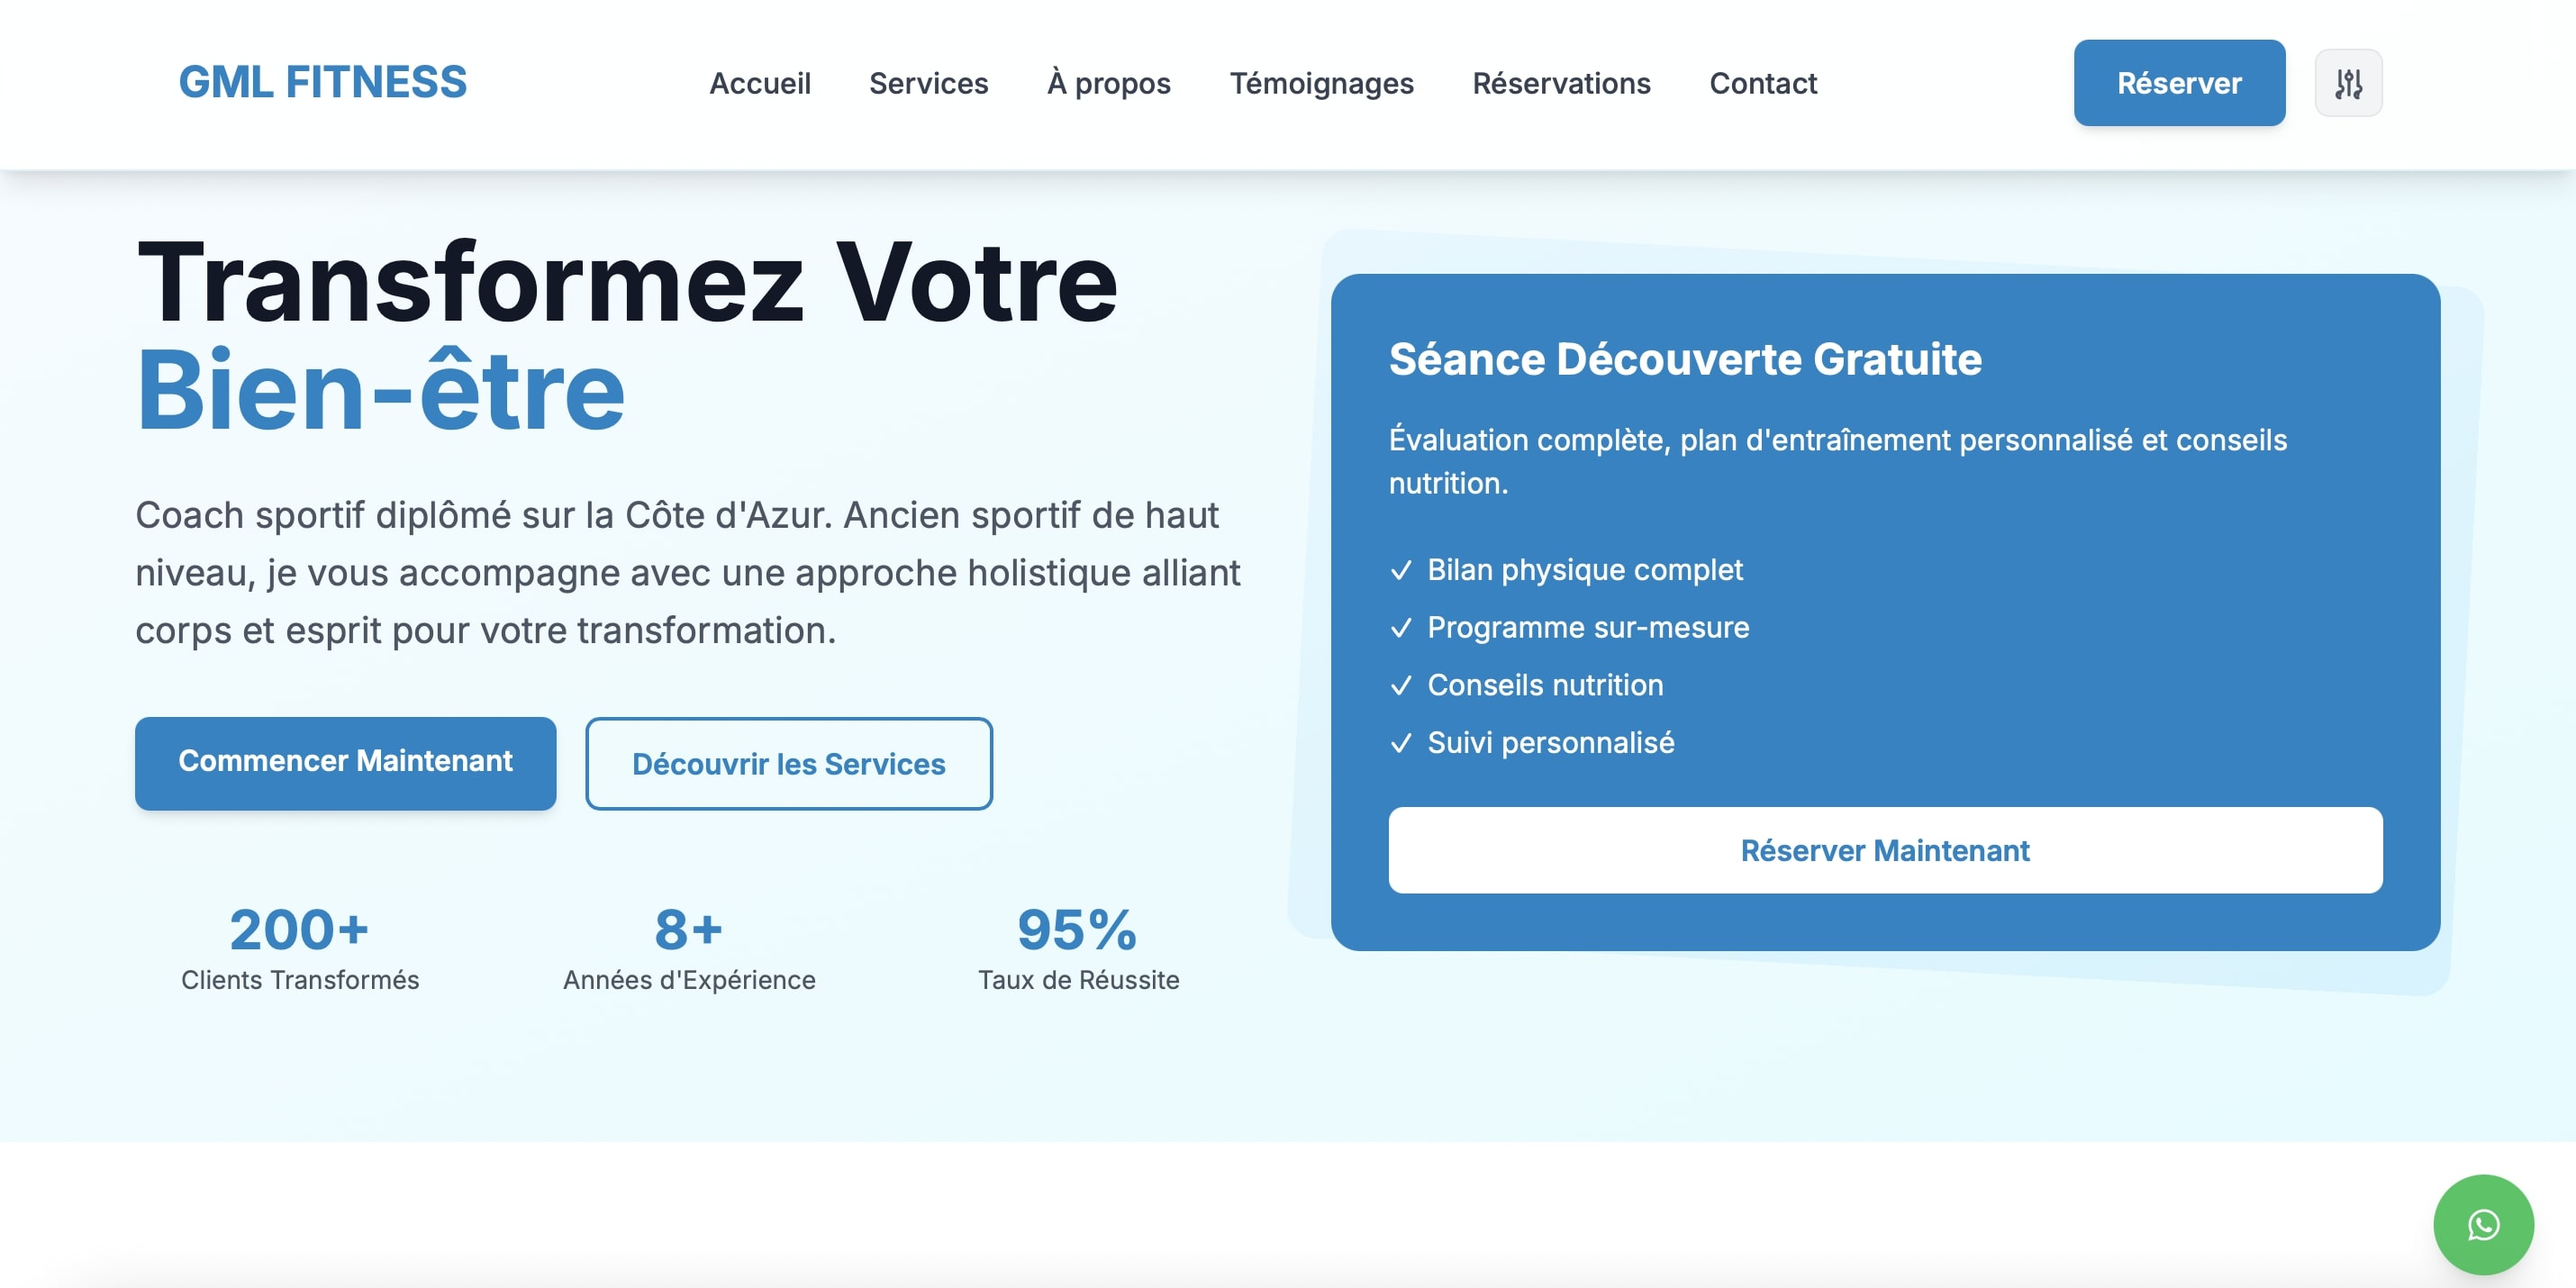
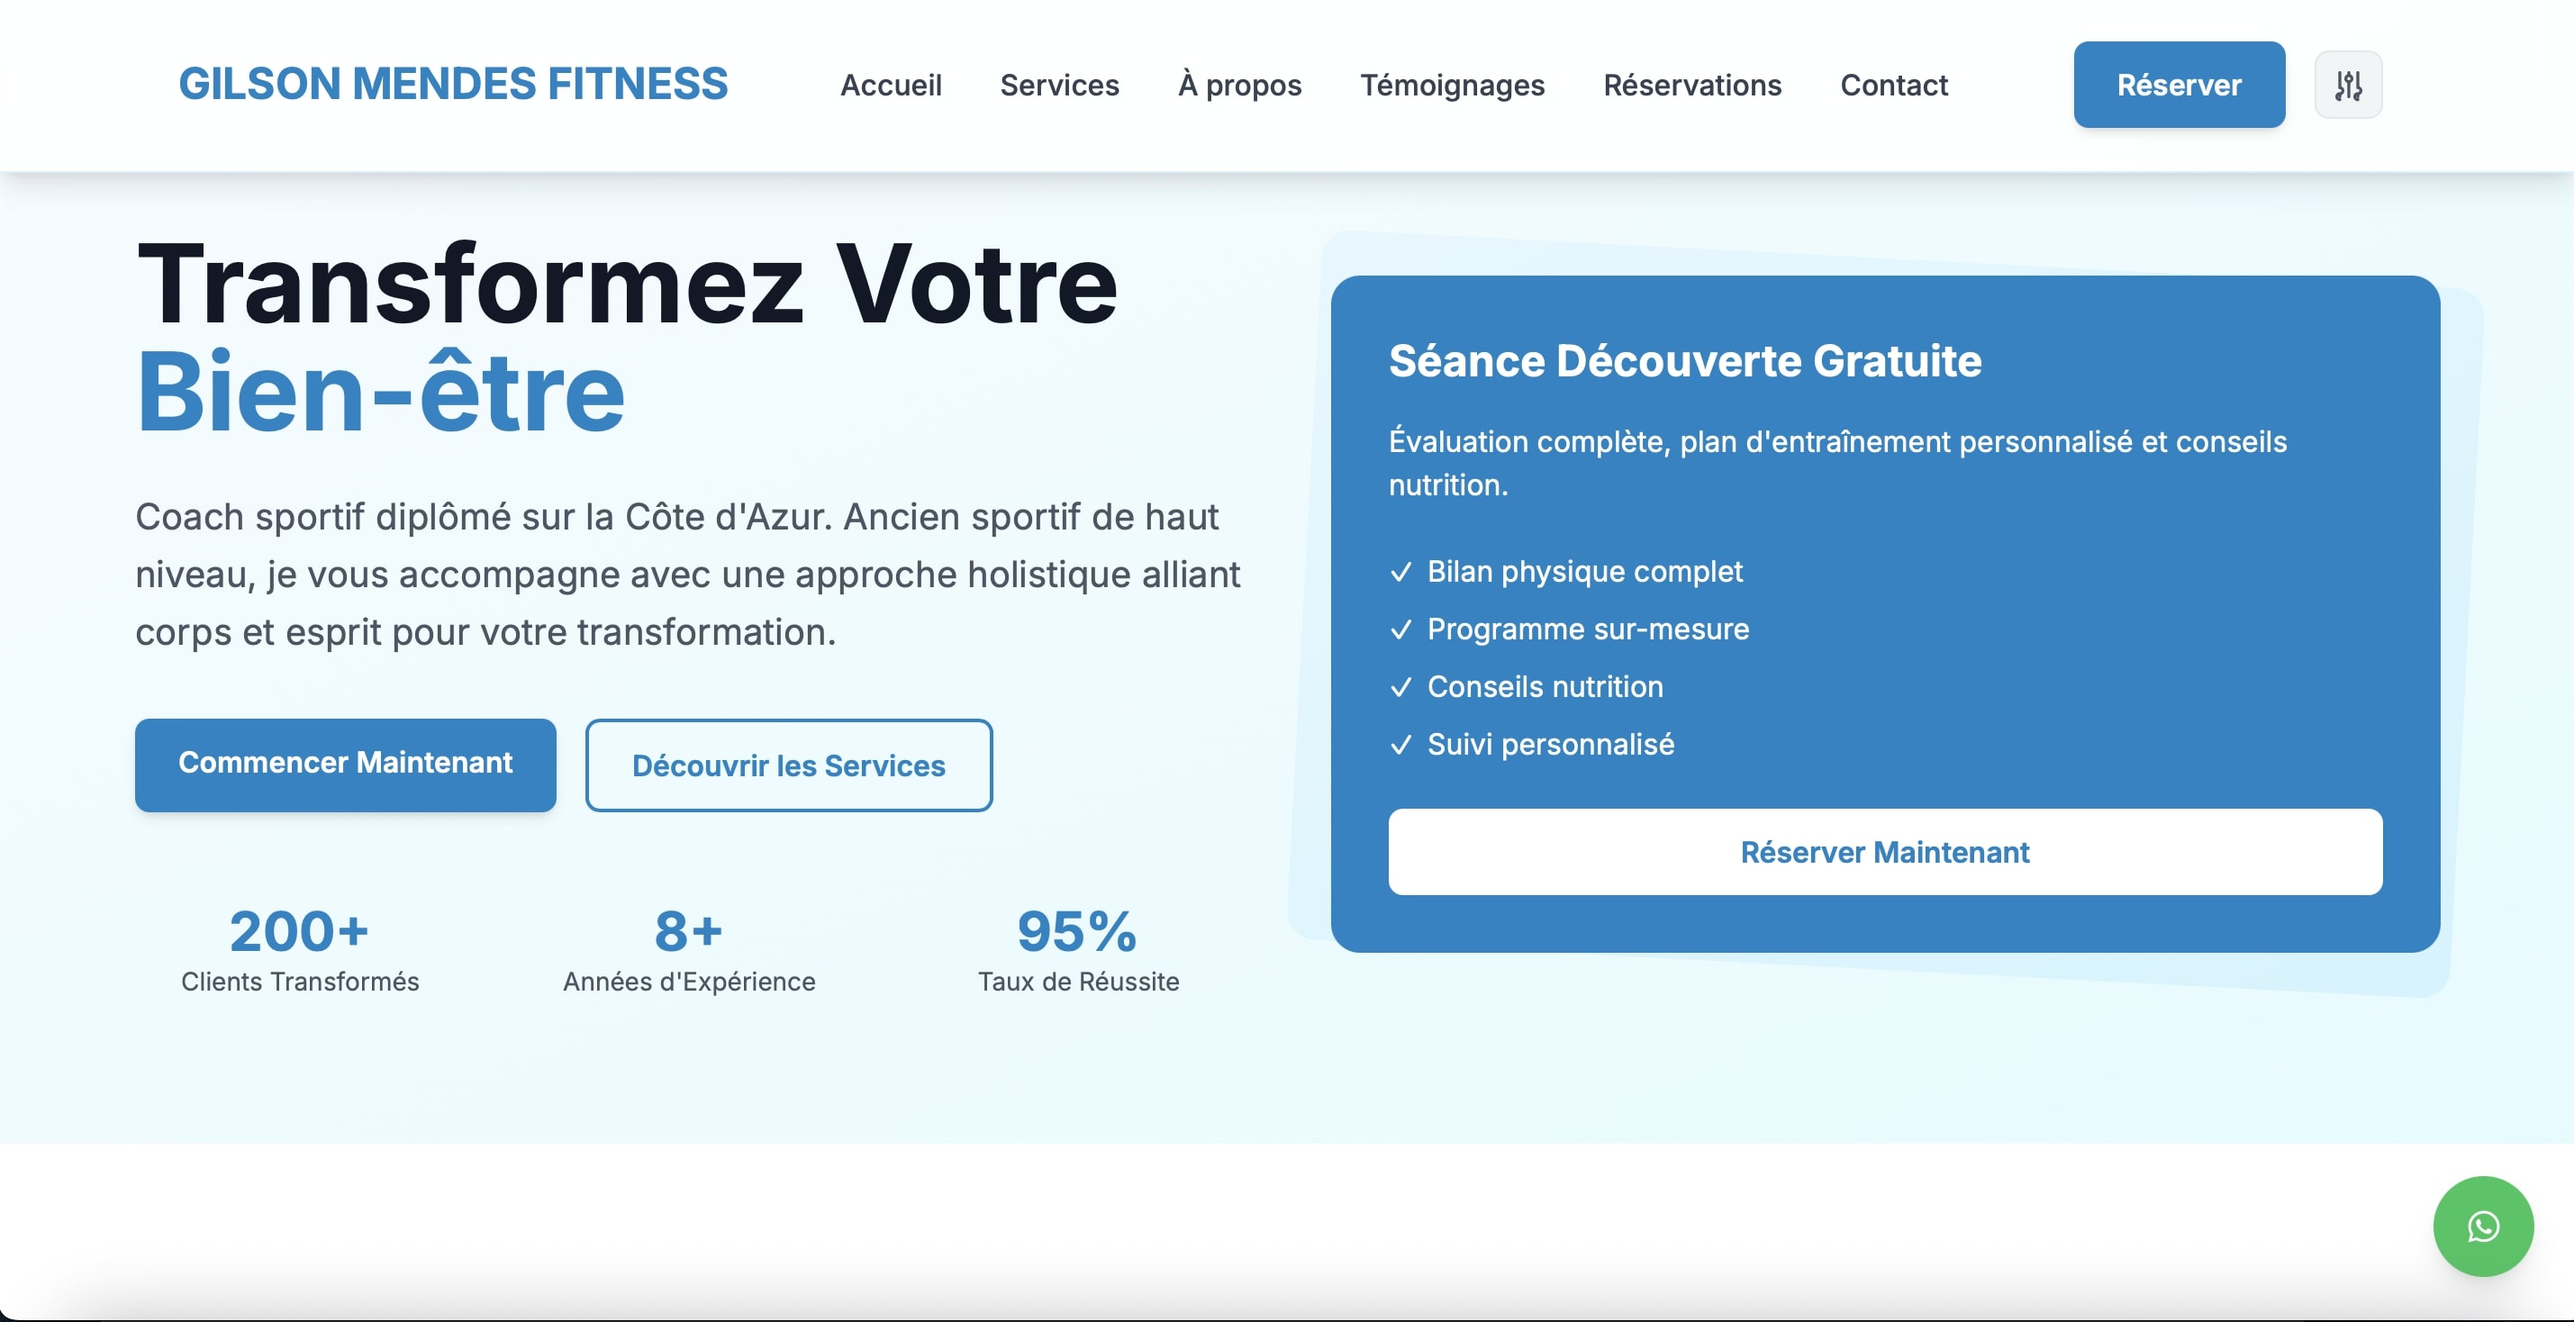
name updated and prices

diff --git a/backend/api/reviews.js b/backend/api/reviews.js
@@ -1,0 +1,129 @@
+/**
+ * Vercel Function - Google Reviews API
+ * Récupère les avis Google My Business via l'API Google Places
+ */
+
+export default async function handler(req, res) {
+  // Headers CORS pour permettre les requêtes depuis le frontend
+  res.setHeader('Access-Control-Allow-Origin', '*');
+  res.setHeader('Access-Control-Allow-Methods', 'GET, OPTIONS');
+  res.setHeader('Access-Control-Allow-Headers', 'Content-Type');
+
+  // Gestion des requêtes OPTIONS (preflight CORS)
+  if (req.method === 'OPTIONS') {
+    return res.status(200).end();
+  }
+
+  // Seules les requêtes GET sont autorisées
+  if (req.method !== 'GET') {
+    return res.status(405).json({ error: 'Method not allowed' });
+  }
+
+  try {
+    // Configuration Google Places API
+    const GOOGLE_PLACES_API_KEY = process.env.GOOGLE_PLACES_API_KEY;
+    // Permettre de tester avec un autre Place ID via paramètre de requête
+    const GOOGLE_PLACE_ID = req.query.test_place_id || process.env.GOOGLE_PLACE_ID;
+
+    if (!GOOGLE_PLACES_API_KEY || !GOOGLE_PLACE_ID) {
+      return res.status(500).json({ 
+        error: 'Google Places API not configured',
+        message: 'Veuillez configurer GOOGLE_PLACES_API_KEY et GOOGLE_PLACE_ID dans les variables d\'environnement Vercel'
+      });
+    }
+
+    // Récupération des avis Google Places
+    const placesUrl = `https://maps.googleapis.com/maps/api/place/details/json?place_id=${GOOGLE_PLACE_ID}&fields=name,rating,reviews,user_ratings_total&key=${GOOGLE_PLACES_API_KEY}&language=fr`;
+    
+    console.log('🔄 Fetching Google Reviews...', { 
+      placeId: GOOGLE_PLACE_ID.substring(0, 20) + '...', 
+      hasApiKey: !!GOOGLE_PLACES_API_KEY,
+      apiKeyPrefix: GOOGLE_PLACES_API_KEY.substring(0, 10) + '...'
+    });
+
+    const response = await fetch(placesUrl);
+    
+    if (!response.ok) {
+      const errorData = await response.text();
+      console.error('❌ Google Places API Error:', response.status, errorData);
+      
+      return res.status(response.status).json({
+        error: 'Google Places API Error',
+        status: response.status,
+        message: 'Erreur lors de la récupération des avis Google',
+        debug: {
+          httpStatus: response.status,
+          placeIdFormat: GOOGLE_PLACE_ID.startsWith('ChIJ') ? 'ChIJ (correct)' : 'Invalid format',
+          placeIdLength: GOOGLE_PLACE_ID.length,
+          errorDetails: errorData.substring(0, 500)
+        }
+      });
+    }
+
+    const data = await response.json();
+
+    if (data.status !== 'OK') {
+      console.error('❌ Google Places API Status Error:', data.status, data.error_message);
+      
+      return res.status(400).json({
+        error: 'Google Places API Status Error',
+        status: data.status,
+        message: data.error_message || 'Erreur API Google Places',
+        debug: {
+          googleStatus: data.status,
+          placeId: GOOGLE_PLACE_ID,
+          placeIdLength: GOOGLE_PLACE_ID.length,
+          suggestedSolution: data.status === 'INVALID_REQUEST' ? 
+            'Place ID is invalid. Please verify the Place ID format and try a complete ChIJ... ID from Google Maps.' :
+            'Check Google Places API key permissions and enable Google Places API in Google Cloud Console.'
+        }
+      });
+    }
+
+    const place = data.result;
+    console.log('✅ Google Reviews fetched successfully:', place.reviews?.length || 0, 'reviews');
+
+    // Transformation des données pour le frontend
+    const transformedReviews = place.reviews?.map(review => ({
+      id: `google_${review.time}`,
+      author_name: review.author_name,
+      author_url: review.author_url,
+      language: review.language,
+      profile_photo_url: review.profile_photo_url,
+      rating: review.rating,
+      relative_time_description: review.relative_time_description,
+      text: review.text,
+      time: review.time,
+      translated: review.translated || false
+    })) || [];
+
+    // Statistiques globales
+    const stats = {
+      averageRating: place.rating || 0,
+      totalReviews: place.user_ratings_total || 0,
+      businessName: place.name || 'Gilson Mendes Fitness'
+    };
+
+    // Réponse finale
+    return res.status(200).json({
+      success: true,
+      data: transformedReviews,
+      stats: stats,
+      meta: {
+        total: transformedReviews.length,
+        fetched_at: new Date().toISOString(),
+        source: 'Google Places API',
+        place_id: GOOGLE_PLACE_ID
+      }
+    });
+
+  } catch (error) {
+    console.error('❌ Server Error:', error);
+    
+    return res.status(500).json({
+      error: 'Internal Server Error',
+      message: 'Erreur serveur lors de la récupération des avis Google',
+      details: process.env.NODE_ENV === 'development' ? error.message : undefined
+    });
+  }
+}

diff --git a/src/components/Services.jsx b/src/components/Services.jsx
@@ -15,7 +15,12 @@ const Services = () => {
         "services.items.personal.features.mobility",
         "services.items.personal.features.mindfulness"
       ],
-      priceKey: "services.items.personal.price"
+      priceKey: "services.items.personal.price",
+      pricesKeys: [
+        "services.items.personal.prices.single",
+        "services.items.personal.prices.pack5",
+        "services.items.personal.prices.pack10"
+      ]
     },
     {
       icon: "👥",
@@ -39,7 +44,12 @@ const Services = () => {
         "services.items.online.features.support",
         "services.items.online.features.flexible"
       ],
-      priceKey: "services.items.online.price"
+      priceKey: "services.items.online.price",
+      pricesKeys: [
+        "services.items.online.prices.single",
+        "services.items.online.prices.pack5",
+        "services.items.online.prices.pack10"
+      ]
     },
     {
       icon: "🏢",
@@ -133,6 +143,13 @@ const Services = () => {
                 <div className="text-3xl font-bold text-primary-600 dark:text-primary-400 mb-4">
                   {t(service.priceKey)}
                 </div>
+                {service.pricesKeys && (
+                  <div className="text-sm text-gray-600 dark:text-gray-300 mb-4 space-y-1">
+                    {service.pricesKeys.map((priceTierKey, idx) => (
+                      <div key={idx}>{t(priceTierKey)}</div>
+                    ))}
+                  </div>
+                )}
                 <motion.button
                   className="btn-primary w-full"
                   whileHover={{ scale: 1.05 }}

diff --git a/src/components/Footer.jsx b/src/components/Footer.jsx
@@ -259,7 +259,7 @@ const Footer = () => {
         >
           <div className="flex flex-col sm:flex-row justify-between items-center space-y-3 sm:space-y-0">
             <div className="text-sm text-gray-300">
-              © {currentYear} GML Fitness. Tous droits réservés.
+              © {currentYear} Gilson Mendes Fitness. Tous droits réservés.
             </div>
             
             <div className="flex flex-wrap justify-center gap-4 text-sm">

diff --git a/emailjs-template.html b/emailjs-template.html
@@ -208,7 +208,7 @@
             <hr style="border: none; border-top: 1px solid #4a5568; margin: 15px 0;">
             <p style="font-size: 12px; opacity: 0.8;">
                 ⏰ Envoyé le {{date}} à {{time}}<br>
-                🌐 Depuis le site GML Fitness
+                🌐 Depuis le site Gilson Mendes Fitness
             </p>
         </div>
     </div>

diff --git a/src/components/Header.jsx b/src/components/Header.jsx
@@ -28,7 +28,7 @@ const Header = () => {
           className="text-2xl font-bold text-primary-600 dark:text-primary-400"
           whileHover={{ scale: 1.05 }}
         >
-          GML FITNESS
+          GILSON MENDES FITNESS
         </motion.div>
 
         {/* Desktop Navigation */}

diff --git a/src/constants/services.ts b/src/constants/services.ts
@@ -78,7 +78,7 @@ export const SERVICES_DATA: Service[] = [
       'Plans nutrition',
       'Support 7j/7'
     ],
-    price: '35€/mois',
+    price: '50€/mois',
     category: SERVICE_CATEGORIES[2],
     isPopular: true
   },

diff --git a/README.md b/README.md
@@ -1,4 +1,4 @@
-# 🏋 GML Fitness - Site Web Coach Sportif
+# 🏋 Gilson Mendes Fitness - Site Web Coach Sportif
 
 Site web moderne et responsive pour coach sportif professionnel, développé avec React + Vite + Tailwind CSS + Framer Motion.
 
